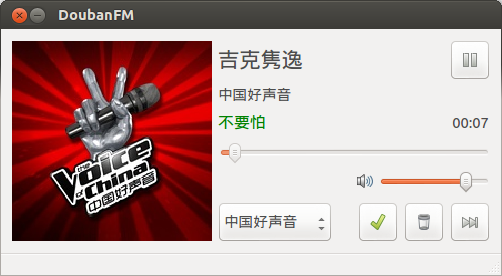
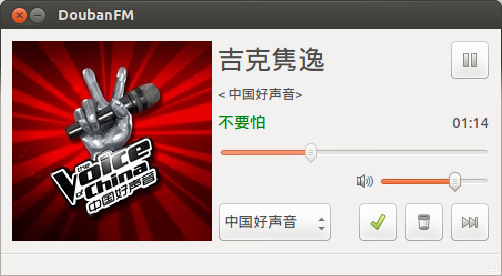
Little Modified

diff --git a/src/mainwindow.cpp b/src/mainwindow.cpp
@@ -149,7 +149,7 @@ void MainWindow::sourceChanged(const Phonon::MediaSource& source) {
 
 
     ui->artistName->setText(songs[index].artist);
-    ui->albumName->setText(songs[index].albumtitle);
+    ui->albumName->setText(QString("< ") + songs[index].albumtitle + ">  " + songs[index].public_time);
     ui->songName->setText("<font color='green'>" + songs[index].title + "</font>");
 
     if (songs[index].like)
@@ -181,8 +181,10 @@ void MainWindow::stateChanged(Phonon::State newState, Phonon::State oldState) {
         break;
     case Phonon::StoppedState:
         qDebug() << Q_FUNC_INFO << "Phonon::StoppedState";
-        if (mediaSources.indexOf(mediaObject->currentSource()) == mediaSources.size() - 1)
+        if (mediaSources.indexOf(mediaObject->currentSource()) == mediaSources.size() - 1) {
             _douban->getNewPlayList(_channel);
+            freeze();
+        }
         break;
     case Phonon::PausedState:
         qDebug() << Q_FUNC_INFO << "Phonon::PausedState";
@@ -215,11 +217,12 @@ void MainWindow::recvNewList(const QList<DoubanFMSong> &song) {
     mediaSources.clear();
     foreach(DoubanFMSong s, song) {
         mediaSources.append(s.url);
-        qDebug() << Q_FUNC_INFO << s.url;
+        qDebug() << Q_FUNC_INFO << s.title;
     }
     mediaObject->clear();
     mediaObject->setQueue(mediaSources);
     mediaObject->play();
+    unfreeze();
 }
 
 void MainWindow::recvPlayingList(const QList<DoubanFMSong> &song) {
@@ -298,4 +301,18 @@ void MainWindow::recvRateSong(const bool succeed) {
             ui->heartButton->setIcon(QIcon(this->style()->standardIcon(QStyle::SP_DialogCloseButton)));
         }
     }
+}
+
+void MainWindow::freeze() {
+    ui->heartButton->setEnabled(false);
+    ui->trashButton->setEnabled(false);
+    ui->pauseButton->setEnabled(false);
+    ui->channelComboBox->setEnabled(false);
+}
+
+void MainWindow::unfreeze() {
+    ui->heartButton->setEnabled(true);
+    ui->trashButton->setEnabled(true);
+    ui->pauseButton->setEnabled(true);
+    ui->channelComboBox->setEnabled(true);
 }

diff --git a/include/mainwindow.h b/include/mainwindow.h
@@ -42,6 +42,9 @@ private:
     void loadBackupData(const QString& filename);
     void saveBackupData(const QString& filename);
 
+    void freeze();
+    void unfreeze();
+
 private slots:
     void stateChanged(Phonon::State newState, Phonon::State oldState);
     void playTick(qint64 time);
